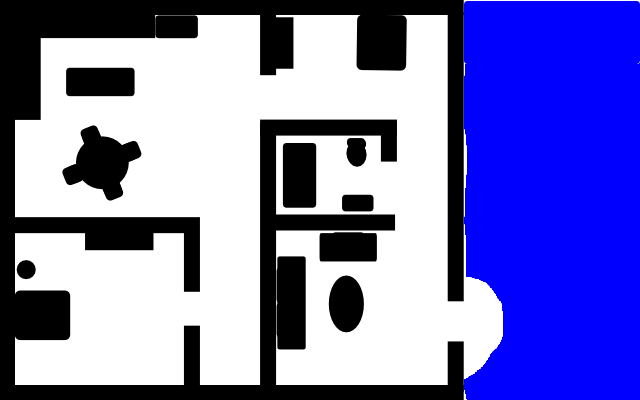
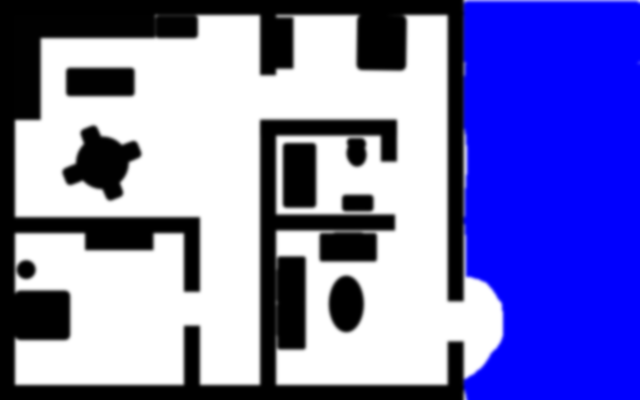
with occlusion added

diff --git a/entbody.js b/entbody.js
@@ -16,7 +16,7 @@ var flick_goal = 20.;
 var flick_speed = 1e-4;
 var flick_noise = 6e3;
 var flick = flick_goal;
-var flick_min = 30;
+var flick_min = 40;
 var flick_max = 1e8;
 var flick_dark = 1.0;
 
@@ -470,6 +470,14 @@ function game_won() {
 
 function is_level_wall(xx,yy) {
   var i = 4*Math.floor(xx) + 4*LX*Math.floor(yy);
+  if (imgd[i] <= 2 && imgd[i+1]<= 2 && imgd[i+2] <= 2) {
+      return true;
+  }
+  return false;
+}
+
+function is_level_see(xx,yy) {
+  var i = 4*Math.floor(xx) + 4*LX*Math.floor(yy);
   if (imgd[i] == 0 && imgd[i+1] ==0 && imgd[i+2] == 0) {
       return true;
   }
@@ -706,16 +714,55 @@ function draw_all(x, y, r, LX, LY, ctx, ctx2) {
 
 }
 
+var shadow_step_size = 5;
+var shadow_expected_step = 1;
+var shadow_num = 15;
+var shadow_noise = 1e-1;
+var shadow_max = 3.;
 
 function draw_gauss(flick,xx,yy) {
     ctx2.globalCompositeOperation = 'destination-out';
     var radgrad = ctx2.createRadialGradient(xx, yy, 0, xx, yy, flick);
-    radgrad.addColorStop(0, 'rgba(0,0,0,1.0)');
+    radgrad.addColorStop(0, 'rgba(0,0,0,' + shadow_max/shadow_num + ')');
     // GRADIENT
-    radgrad.addColorStop(0.5, 'rgba(0,0,0,0.5)');
+    radgrad.addColorStop(0.5, 'rgba(0,0,0,' + (shadow_max/2)/shadow_num + ')');
     radgrad.addColorStop(1, 'rgba(0,0,0,0)');
-    ctx2.fillStyle = radgrad;
-    ctx2.fillRect(xx-flick-1,yy-flick-1,2*flick+2,2*flick+2);
+
+    for (var i=0; i<5; i++) {
+        ctx2.save();
+        ctx2.beginPath();
+        var theta = 0.0;
+        var center_x = xx + shadow_noise * ((2*Math.random()-1)+(2*Math.random()-1)+(2*Math.random()-1));
+        var center_y = yy + shadow_noise * ((2*Math.random()-1)+(2*Math.random()-1)+(2*Math.random()-1));
+        var x = center_x;
+        var y = center_y;
+        for (var k=0; k < 2*flick; k += shadow_step_size) {
+            x = xx + k*Math.sin(theta);
+            y = yy + k*Math.cos(theta);
+            if (is_level_see(x,y)) {
+                break;
+            }
+        }
+        ctx2.moveTo(x,y);
+        while (theta < 2*Math.PI) {
+            for (var k=0; k < 2*flick; k += shadow_step_size) {
+                x = center_x + k*Math.sin(theta);
+                y = center_y + k*Math.cos(theta);
+                if (is_level_see(x,y)) {
+                    break;
+                }
+            }
+            ctx2.lineTo(x,y);
+            theta += shadow_expected_step/k;
+        }
+        ctx2.closePath();
+        ctx2.clip();
+
+        ctx2.fillStyle = radgrad;
+        ctx2.fillRect(xx-flick-1,yy-flick-1,2*flick+2,2*flick+2);
+
+        ctx2.restore();
+    }
 }
 
 function draw_crumbs() {
